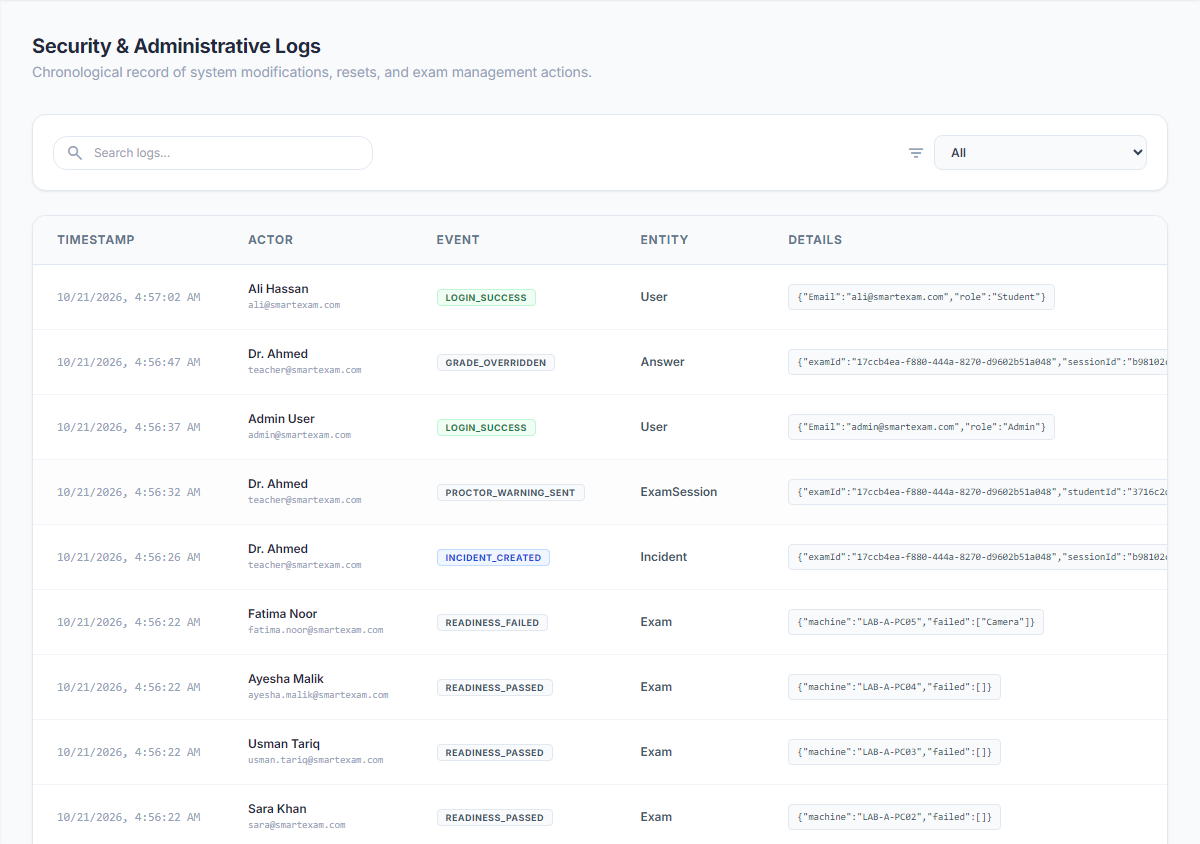
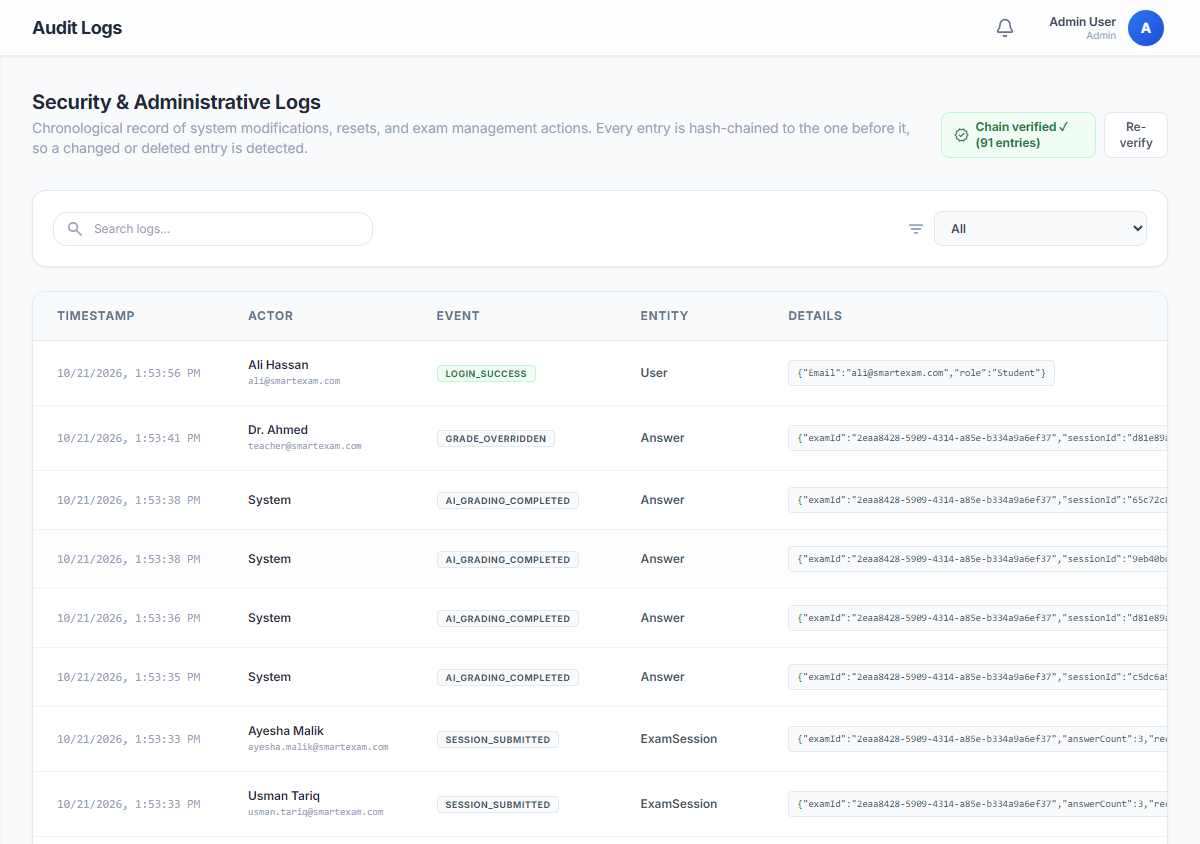
Thesis and test catalogue after Module 12: hash-chain and export tests in Ch7, updated audit diagrams and screenshot
- Ch7 from the post-M12 run: backend 508/0/0, desktop 233/0/0, Playwright 180/0/1 (922 tests, 921 passed)
- New UT-38..40 (hash chain), IT-27..30 (verify/tamper, concurrency, backfill, exports), ST-16; IT renumbered
- Defects D-48 (report download folder) and D-49 (load-sensitive M11-I-05) recorded
- Ch2/4/5/6 text and the audit/report diagrams describe the hash chain and the audited exports

diff --git a/important docs/fyp_doc_3chatp/Chapters/Chapter-7-3.tex b/important docs/fyp_doc_3chatp/Chapters/Chapter-7-3.tex
@@ -123,7 +123,7 @@ IT-22 & Hidden test results stay hidden from the student & 1. Student submits a 
 IT-23 & Teacher override is the final mark & 1. Theory answer is graded. \newline 2. Teacher overrides twice; student opens the result. & Overrides 3.5, then 4.0 \newline {\footnotesize\textit{Ref: M11-I-08}} & 4.0 is final for teacher and student; the AI suggestion is kept. & Pass\\ \hline
 \end{longtable}}
 
-Table~\ref{tab:it_audit_reports} checks the audit log and report endpoints of Logs, Analytics and Audit Trail (FR12). The hash-chain, event-audit and report-export tests (M12-I-01 to M12-I-09) were skipped in the final run because those features are not finished, so they are not listed.
+Table~\ref{tab:it_audit_reports} checks the audit log and report endpoints of Logs, Analytics and Audit Trail (FR12). It also covers the tamper-evident hash chain, the audit of monitoring events and the five report exports added in Module~12.
 
 {\small\setlength{\tabcolsep}{4pt}
 \begin{longtable}{|P{1.1cm}|P{2.5cm}|P{3.6cm}|P{2.6cm}|P{2.9cm}|P{1.2cm}|}
@@ -140,6 +140,10 @@ Table~\ref{tab:it_audit_reports} checks the audit log and report endpoints of Lo
 IT-24 & Audit log is admin-only & 1. Teacher, then admin, calls \texttt{GET /\allowbreak{}api/\allowbreak{}audit-\allowbreak{}logs}. & teacher@\allowbreak{}smartexam.\allowbreak{}com \newline admin@\allowbreak{}smartexam.\allowbreak{}com \newline {\footnotesize\textit{Ref: M12-A-01}} & Teacher 403; admin 200. & Pass\\ \hline
 IT-25 & Exam report is produced as a PDF & 1. Teacher generates the exam report. \newline 2. Teacher downloads the file. & Exam with one submitted session \newline {\footnotesize\textit{Ref: M12-A-03}} & 200; type application/pdf, content starts with \%PDF; listed in report history. & Pass\\ \hline
 IT-26 & Report download cannot leave its folder & 1. Teacher requests crafted file names. & \texttt{.\allowbreak{}.\allowbreak{}\%2F\allowbreak{}.\allowbreak{}.\allowbreak{}\%2F\allowbreak{}appsettings.\allowbreak{}json} \newline \texttt{\%2E\allowbreak{}\%2E\allowbreak{}\%2F\allowbreak{}appsettings.\allowbreak{}json} \newline {\footnotesize\textit{Ref: M12-A-04}} & 400 or 404; no response contains connection strings. & Pass\\ \hline
+IT-27 & Verify the chain and detect tampering & 1. Admin calls \texttt{GET /\allowbreak{}api/\allowbreak{}audit-\allowbreak{}logs/\allowbreak{}verify}. \newline 2. A row is changed in the database; verify again. \newline 3. Teacher calls verify. & Clean chain; one tampered row \newline {\footnotesize\textit{Ref: M12-I-01, M12-I-02}} & \texttt{valid: true}; then \texttt{valid: false} with \texttt{brokenAt}; teacher 403. & Pass\\ \hline
+IT-28 & Keep the chain under parallel writes and user deletion & 1. Write 50 audit entries in parallel. \newline 2. Admin deletes a user who has audit rows. & 50 concurrent writes; one deleted student \newline {\footnotesize\textit{Ref: M12-I-03, M12-I-11}} & Sequences unique with no gap and chain valid; the user's rows remain and the chain stays valid. & Pass\\ \hline
+IT-29 & Seal entries written before the chain existed & 1. Verify a log whose rows have no hash. \newline 2. Run the backfill twice. & Legacy rows without chain columns \newline {\footnotesize\textit{Ref: M12-I-09, M12-I-10}} & \texttt{valid: false} with the unsealed count; first backfill seals all, second seals none; chain valid. & Pass\\ \hline
+IT-30 & Audit violations and export the evidence & 1. Post a violation and a batch with two violations. \newline 2. Generate the attendance, violations and scores PDFs, the Excel file and the evidence ZIP. \newline 3. Another teacher and a student request an export. & A PNG capture and an unreadable JPEG \newline {\footnotesize\textit{Ref: M12-I-04 to M12-I-08, M12-I-12, M12-I-13, M12-A-05}} & Violation in the audit log, batch audited once with count 2; PDFs start with \%PDF, Excel has one row per student, ZIP manifest hashes match the files, bad image skipped; \texttt{REPORT\_\allowbreak{}GENERATED} carries the file's SHA-256; others 403. & Pass\\ \hline
 \end{longtable}}
 
 Table~\ref{tab:it_security} groups a security test with the regression tests for defects D-39 and D-41 to D-45 (Table~\ref{tab:bugs}).
@@ -156,11 +160,11 @@ Table~\ref{tab:it_security} groups a security test with the regression tests for
 \endfoot
 \hline
 \endlastfoot
-IT-27 & Repeated failed logins are rate-limited & 1. Send four failed logins from one IP. \newline 2. Log in correctly from it and another IP. & Limit 3 per minute \newline {\footnotesize\textit{Ref: SEC-I-04}} & 401 three times, then 429 even for the right password; other IP 200. & Pass\\ \hline
-IT-28 & Per-exam endpoints refused to other teachers (D-39) & 1. Another section's teacher calls each per-exam endpoint. \newline 2. Same calls with unknown ids. & ``Test Exam'', section BSCS-6A \newline {\footnotesize\textit{Ref: M10-I-18}} & 403 each, nothing changed; unknown ids 404; owner and admin 200. & Pass\\ \hline
-IT-29 & Hub stops working after sign-out (D-41) & 1. Teacher joins the exam group. \newline 2. Admin force-logs the teacher out. \newline 3. Socket calls Unlock\allowbreak{}Session. & Unlock 5 min \newline {\footnotesize\textit{Ref: M10-I-21}} & Call refused and connection closed; the session is not unlocked. & Pass\\ \hline
-IT-30 & Questions only while sitting the exam (D-42) & 1. Student opens the exam before, during and after the sitting. & Exam in 3 days; open exam \newline {\footnotesize\textit{Ref: M3-I-08}} & Questions only during the sitting; the teacher always sees them. & Pass\\ \hline
-IT-31 & Finished session cannot be restarted (D-43) & 1. Student submits, then calls \texttt{student/\allowbreak{}start}. \newline 2. A force-submitted student does the same. & Two students, one open exam \newline {\footnotesize\textit{Ref: M6-I-21}} & 409 \texttt{ALREADY\_\allowbreak{}SUBMITTED} for both; one session each. & Pass\\ \hline
-IT-32 & Teacher cannot assign another teacher's students (D-44) & 1. Teacher B creates an exam with teacher A's student. \newline 2. Teacher B adds that student later. & BSCS-6A (A), BSCS-6B (B) \newline {\footnotesize\textit{Ref: M9-I-21}} & 403 \texttt{STUDENT\_\allowbreak{}NOT\_\allowbreak{}IN\_\allowbreak{}YOUR\_\allowbreak{}SECTIONS} both times. & Pass\\ \hline
-IT-33 & Web token cannot act in the desktop session (D-45) & 1. Student starts on PC-01. \newline 2. The same account saves and submits from the web. & PC-01; web portal \newline {\footnotesize\textit{Ref: M9-I-22}} & 403 \texttt{DESKTOP\_\allowbreak{}CLIENT\_\allowbreak{}REQUIRED}; desktop answer kept; desktop submit 200. & Pass\\ \hline
+IT-31 & Repeated failed logins are rate-limited & 1. Send four failed logins from one IP. \newline 2. Log in correctly from it and another IP. & Limit 3 per minute \newline {\footnotesize\textit{Ref: SEC-I-04}} & 401 three times, then 429 even for the right password; other IP 200. & Pass\\ \hline
+IT-32 & Per-exam endpoints refused to other teachers (D-39) & 1. Another section's teacher calls each per-exam endpoint. \newline 2. Same calls with unknown ids. & ``Test Exam'', section BSCS-6A \newline {\footnotesize\textit{Ref: M10-I-18}} & 403 each, nothing changed; unknown ids 404; owner and admin 200. & Pass\\ \hline
+IT-33 & Hub stops working after sign-out (D-41) & 1. Teacher joins the exam group. \newline 2. Admin force-logs the teacher out. \newline 3. Socket calls Unlock\allowbreak{}Session. & Unlock 5 min \newline {\footnotesize\textit{Ref: M10-I-21}} & Call refused and connection closed; the session is not unlocked. & Pass\\ \hline
+IT-34 & Questions only while sitting the exam (D-42) & 1. Student opens the exam before, during and after the sitting. & Exam in 3 days; open exam \newline {\footnotesize\textit{Ref: M3-I-08}} & Questions only during the sitting; the teacher always sees them. & Pass\\ \hline
+IT-35 & Finished session cannot be restarted (D-43) & 1. Student submits, then calls \texttt{student/\allowbreak{}start}. \newline 2. A force-submitted student does the same. & Two students, one open exam \newline {\footnotesize\textit{Ref: M6-I-21}} & 409 \texttt{ALREADY\_\allowbreak{}SUBMITTED} for both; one session each. & Pass\\ \hline
+IT-36 & Teacher cannot assign another teacher's students (D-44) & 1. Teacher B creates an exam with teacher A's student. \newline 2. Teacher B adds that student later. & BSCS-6A (A), BSCS-6B (B) \newline {\footnotesize\textit{Ref: M9-I-21}} & 403 \texttt{STUDENT\_\allowbreak{}NOT\_\allowbreak{}IN\_\allowbreak{}YOUR\_\allowbreak{}SECTIONS} both times. & Pass\\ \hline
+IT-37 & Web token cannot act in the desktop session (D-45) & 1. Student starts on PC-01. \newline 2. The same account saves and submits from the web. & PC-01; web portal \newline {\footnotesize\textit{Ref: M9-I-22}} & 403 \texttt{DESKTOP\_\allowbreak{}CLIENT\_\allowbreak{}REQUIRED}; desktop answer kept; desktop submit 200. & Pass\\ \hline
 \end{longtable}}

diff --git a/important docs/fyp_doc_3chatp/Chapters/Chapter-7-4.tex b/important docs/fyp_doc_3chatp/Chapters/Chapter-7-4.tex
@@ -1,6 +1,6 @@
 \subsection{System Testing}\label{subsec:system_tests}
 
-System tests check complete user flows in the Playwright \texttt{chromium} project: the web panel runs in headless Chromium, and the desktop-client simulator sends the HTTP calls of the WPF client in the same test, so one action can be followed from the student PC to the teacher's screen and back. Each test creates its own students and exam. Of the 113 tests, 111 passed, none failed, and M12-E-04 and M12-E-05 were skipped and are not listed. One system test case may combine several catalogue tests of the same flow; all the tests it cites passed.
+System tests check complete user flows in the Playwright \texttt{chromium} project: the web panel runs in headless Chromium, and the desktop-client simulator sends the HTTP calls of the WPF client in the same test, so one action can be followed from the student PC to the teacher's screen and back. Each test creates its own students and exam. All 113 tests passed. One system test case may combine several catalogue tests of the same flow; all the tests it cites passed.
 
 Table~\ref{tab:st_admin} covers signing in, token refresh, logout and role separation in the web panel.
 
@@ -79,10 +79,11 @@ ST-12 & Force-submit all or one session & 1. A simulator saves a draft; teacher 
 ST-13 & Show grading suggestions, let the teacher decide & 1. Submit non-compiling, then correct code; open Review. \newline 2. Override a theory mark; in another exam, accept AI suggestions. & \texttt{arr}, \texttt{n} undeclared; override 7 \newline {\footnotesize\textit{Ref: M11-E-01, M11-E-04, M11-E-02, M11-E-06}} & ``Compilation failed'', 0 / 20, two test-case rows, the first Not run; 20 / 20; 7/10 Overridden; ``Accepted 2 suggestion(s)''. & Pass\\ \hline
 ST-14 & Show plagiarism between submissions & 1. Three students submit the same answer; open Analytics. \newline 2. Two submit a program and a renamed copy. & Rename \texttt{best}$\rightarrow$\texttt{top} \newline {\footnotesize\textit{Ref: M11-E-03, M11-E-05}} & 3$\times$3 heat map, cell 0-1 shows 100; flag ``100\% Similarity Match''. & Pass\\ \hline
 ST-15 & Review the audit log, generate a PDF report & 1. Admin filters Audit Logs and searches by email. \newline 2. Teacher clicks Generate New Report. & \texttt{LOGIN\_\allowbreak{}SUCCESS}; teacher@\allowbreak{}smartexam.\allowbreak{}com \newline {\footnotesize\textit{Ref: M7-E-03, M12-E-01, M12-E-02}} & Only \texttt{LOGIN\_\allowbreak{}SUCCESS} rows; teacher found; a Download button and a \texttt{.pdf} row. & Pass\\ \hline
+ST-16 & Show the chain status and export evidence & 1. Admin opens Audit Logs. \newline 2. Teacher opens Reports and clicks Evidence ZIP. & Seeded exam with submitted sessions \newline {\footnotesize\textit{Ref: M12-E-04, M12-E-05}} & Badge ``Chain verified''; a \texttt{.zip} download starts. & Pass\\ \hline
 \end{longtable}}
 
 \subsubsection*{Pending Lab Verification}
-Checks that need a real lab PC (WPF windows, keyboard and USB events, a webcam, a network cable or 30 machines) are on the manual lab checklist (layers D, M and P) and were not executed, so Table~\ref{tab:st_pending} lists them as Pending. Their decision logic is mostly covered by the unit and integration tests above. The Module~12 hash-chain and report-export tests are also not run, because those features are not finished.
+Checks that need a real lab PC (WPF windows, keyboard and USB events, a webcam, a network cable or 30 machines) are on the manual lab checklist (layers D, M and P) and were not executed, so Table~\ref{tab:st_pending} lists them as Pending. Their decision logic is mostly covered by the unit and integration tests above.
 
 {\small\setlength{\tabcolsep}{4pt}
 \begin{longtable}{|P{2.6cm}|P{3.0cm}|P{3.8cm}|P{3.6cm}|P{1.4cm}|}
@@ -108,7 +109,7 @@ M5-P-01 & Load: 30 clients per lab & k6: 30 virtual students send heartbeats eve
 
 \section{Bugs Report}\label{sec:bugs}
 
-In total 47 defects (D-01 to D-47) were recorded in the test catalogue, each with the test or review that found it. Six (D-07, D-16, D-19, D-20, D-22, D-26) were found by code review, and one (D-33) was a flaky test rather than a product defect. Table~\ref{tab:bugs} lists the 20 with the largest effect on exam integrity, data access and reliability; every test named in it is kept as a regression test and passed in the final run. Severity is Critical for a leak of exam content or credentials or a bypass of the desktop client, High for a broken access rule or a loss of exam time or data, and Medium for a fault with a limited effect. No defect is open.
+In total 49 defects (D-01 to D-49) were recorded in the test catalogue, each with the test or review that found it. Six (D-07, D-16, D-19, D-20, D-22, D-26) were found by code review, and two (D-33, D-49) were timing-sensitive tests rather than product defects. Table~\ref{tab:bugs} lists the 20 with the largest effect on exam integrity, data access and reliability; every test named in it is kept as a regression test and passed in the final run. Severity is Critical for a leak of exam content or credentials or a bypass of the desktop client, High for a broken access rule or a loss of exam time or data, and Medium for a fault with a limited effect. No defect is open.
 
 {\small\setlength{\tabcolsep}{4pt}
 \begin{longtable}{|P{1.0cm}|P{2.0cm}|P{8.5cm}|P{1.6cm}|P{1.2cm}|}
@@ -144,4 +145,4 @@ D-44 & M9-I-21 & Teachers could assign other teachers' students. & High & Fixed\
 D-45 & M9-I-22 & A web token could act in the lab PC's session. & Critical & Fixed\\ \hline
 \end{longtable}}
 
-Most serious defects were access-control faults that appear only when two users of the same role meet, or failure paths of the desktop client (crash, network loss, camera error) found by unit tests with fakes. In summary, SmartExam was tested at three levels with 915 automated tests, of which 900 passed, none failed and 15 were skipped, and every test case marked Pass in this chapter is backed by a passing test from that run. The 47 defects recorded during testing are all fixed; those found by a test are kept as regression tests. The checks that need a real lab PC, the load test and the unfinished Module~12 features (audit hash chain and report exports) are still pending and are reported as such.
+Most serious defects were access-control faults that appear only when two users of the same role meet, or failure paths of the desktop client (crash, network loss, camera error) found by unit tests with fakes. In summary, SmartExam was tested at three levels with 922 automated tests, of which 921 passed, none failed and one was skipped (SEC-A-01, covered by SEC-I-04), and every test case marked Pass in this chapter is backed by a passing test from that run. The 49 defects recorded during testing are all fixed; those found by a test are kept as regression tests. The checks that need a real lab PC and the load test are still pending and are reported as such.

diff --git a/important docs/fyp_doc_3chatp/Chapters/Chapter-7-1.tex b/important docs/fyp_doc_3chatp/Chapters/Chapter-7-1.tex
@@ -39,7 +39,7 @@ System tests run complete user flows across the web panel, the backend and the s
   \item \textbf{Requirement-based IDs.} Each module has test IDs of the form \texttt{M<module>-\allowbreak{}<layer>-\allowbreak{}<nn>} in the test catalogue (\texttt{Docs/\allowbreak{}TEST\_CASES.md}), with layers U (unit), I (in-process integration), A (black-box API), E (browser end-to-end), D (desktop UI), M (manual lab check) and P (load). Every UT, IT and ST row gives its catalogue ID in the Test Data column.
   \item \textbf{Tests before or with the feature.} Tests for a feature not yet built are committed as pending (\texttt{Skip} in xUnit, \texttt{test.fixme} in Playwright) and are enabled in the change that adds the feature.
   \item \textbf{Isolation.} No test uses the Neon production database. The backend suites run on a fresh seeded in-memory database, and most tests create their own exams and users.
-  \item \textbf{Defects.} Each defect is recorded (D-01 to D-47) with the test or review that found it and fixed; a test that found a defect stays in the suite as a regression test.
+  \item \textbf{Defects.} Each defect is recorded (D-01 to D-49) with the test or review that found it and fixed; a test that found a defect stays in the suite as a regression test.
   \item \textbf{Entry and exit criteria.} Entry: the solution builds and the module's test cases are written. Exit: zero failed tests in all suites, no open defect, and every catalogue row marked as automated maps to at least one passing test.
 \end{itemize}
 
@@ -118,7 +118,7 @@ Sprint 3 (9--12) & M8, M9: exam creation, eligibility, seat checks \\ \hline
 Sprint 4 (13--16) & M2, M3, M4: readiness and lockdown policy unit tests; start-gate tests \\ \hline
 Sprint 5 (17--20) & M5, M10: monitoring client rules, heartbeat and Live Monitor tests \\ \hline
 Sprint 6 (21--24) & M6, M11: autosave, backup, submission, grading and plagiarism tests \\ \hline
-Sprint 7 (25--28) & M12: audit and report tests (hash-chain and export tests still pending) \\ \hline
+Sprint 7 (25--28) & M12: audit, hash-chain and report-export tests \\ \hline
 Sprint 8 (29--32) & System tests, full regression, defect fixing, final run on 21 Oct 2026 \\ \hline
 \end{tabular}}
 \end{table}
@@ -134,12 +134,12 @@ Table~\ref{tab:test_summary} gives the totals of the final run.
 \begin{tabular}{|p{6.4cm}|c|c|c|c|}
 \hline
 \textbf{Suite} & \textbf{Tests} & \textbf{Passed} & \textbf{Failed} & \textbf{Skipped} \\ \hline
-Backend\_API.Tests (xUnit) & 501 & 489 & 0 & 12 \\ \hline
+Backend\_API.Tests (xUnit) & 508 & 508 & 0 & 0 \\ \hline
 Student\_Desktop\_App.Tests (xUnit) & 233 & 233 & 0 & 0 \\ \hline
 Playwright \texttt{api} project & 68 & 67 & 0 & 1 \\ \hline
-Playwright \texttt{chromium} project & 113 & 111 & 0 & 2 \\ \hline
-\textbf{Total} & \textbf{915} & \textbf{900} & \textbf{0} & \textbf{15} \\ \hline
+Playwright \texttt{chromium} project & 113 & 113 & 0 & 0 \\ \hline
+\textbf{Total} & \textbf{922} & \textbf{921} & \textbf{0} & \textbf{1} \\ \hline
 \end{tabular}}
 \end{table}
 
-No test failed and no Playwright test needed a retry. The 15 skipped tests are not counted as passed. Twelve are the Module~12 acceptance tests (hash chain, audit of monitoring events and the attendance, violations, Excel and evidence-ZIP reports), whose features are not finished, and two are the matching browser tests M12-E-04 and M12-E-05. The last is SEC-A-01, the login rate-limit test, which cannot run against the Playwright backend because that backend raises the limit; the same rule is checked by SEC-I-04 in xUnit. Of the 463 rows in the test catalogue, 414 have at least one passing test. The other 49 are the unfinished Module~12 rows and the desktop UI, manual lab and load checks (M*-D, M*-M, M5-P-01), which need a lab PC and were not run.
+No test failed and no Playwright test needed a retry. The one skipped test is not counted as passed: it is SEC-A-01, the login rate-limit test, which cannot run against the Playwright backend because that backend raises the limit; the same rule is checked by SEC-I-04 in xUnit. Of the 469 rows in the test catalogue, 437 have at least one passing test. The other 32 are the desktop UI, manual lab and load checks (M*-D, M*-M, M5-P-01), which need a lab PC and were not run.

diff --git a/important docs/fyp_doc_3chatp/Chapters/Chapter-7-2.tex b/important docs/fyp_doc_3chatp/Chapters/Chapter-7-2.tex
@@ -4,7 +4,7 @@ This section lists the test cases by level: unit (UT), integration (IT) and syst
 
 \subsection{Unit Testing}\label{subsec:unit_tests}
 
-Unit tests check one class at a time without a database, network or user interface, in the xUnit projects for the WPF client (233 tests, all passed) and the server (489 passed, 12 skipped, together with its API tests). Time-dependent logic uses a fake clock, the registry is an in-memory fake, and webcam frames are generated in code. The skipped backend tests belong to Module~12 (audit hash chain, audit of monitoring events and report exports), which is not finished, and are not counted here.
+Unit tests check one class at a time without a database, network or user interface, in the xUnit projects for the WPF client (233 tests) and the server (508 tests, together with its API tests), all of which passed. Time-dependent logic uses a fake clock, the registry is an in-memory fake, and webcam frames are generated in code.
 
 Table~\ref{tab:ut_auth} covers password hashing on the server, token refresh in the desktop client and the hardware fingerprint (HWID) that binds a student to one lab PC.
 
@@ -185,4 +185,23 @@ Table~\ref{tab:ut_similarity} covers static analysis, TF-IDF grading of theory a
 UT-35 & Estimate complexity, flag hard-coding & 1. Analyse nested loops and recursion. \newline 2. Analyse 12 if statements. & C++ snippets; sum(arr, n) \newline {\footnotesize\textit{Ref: M11-U-14}} & O(1) to O(n$^3$+); recursion found; hard-coding High. & Pass\\ \hline
 UT-36 & Grade theory answers with TF-IDF & 1. Grade an answer identical to the model. \newline 2. Grade a partial and an unrelated answer. & Identical: ``A stack is LIFO and a queue is FIFO.'' (model and answer) \newline Model (other cases): ``Stack is LIFO, queue is FIFO.'' \newline {\footnotesize\textit{Ref: M11-U-07, M11-U-15}} & 10 marks, High; partial 3--7, Medium; unrelated 0. & Pass\\ \hline
 UT-37 & Detect copies, separate algorithms & 1. Compare a renamed and a commented copy. \newline 2. Compare a recursive version. & sum(arr, n) vs addAll(values, count) \newline {\footnotesize\textit{Ref: M11-U-08 to M11-U-10}} & $\geq$ 90\%, $\geq$ 95\% and $<$ 30\%. & Pass\\ \hline
+\end{longtable}}
+
+Table~\ref{tab:ut_audit_chain} covers the hash chain that makes the audit log tamper-evident (FR12): each row stores the previous row's hash, so a changed or deleted row breaks the chain.
+
+{\small\setlength{\tabcolsep}{4pt}
+\begin{longtable}{|P{1.1cm}|P{2.5cm}|P{3.6cm}|P{2.6cm}|P{2.9cm}|P{1.2cm}|}
+\caption{Unit Test Cases for the Audit Hash Chain}\label{tab:ut_audit_chain}\\ \hline
+\textbf{Test Case} & \textbf{Test Objective} & \textbf{Test Steps} & \textbf{Test Data} & \textbf{Expected Results} & \textbf{Pass/\allowbreak{}Fail}\\ \hline
+\endfirsthead
+\multicolumn{6}{c}{\tablename~\thetable{} -- continued from previous page}\\ \hline
+\textbf{Test Case} & \textbf{Test Objective} & \textbf{Test Steps} & \textbf{Test Data} & \textbf{Expected Results} & \textbf{Pass/\allowbreak{}Fail}\\ \hline
+\endhead
+\hline \multicolumn{6}{r}{Continued on next page}\\
+\endfoot
+\hline
+\endlastfoot
+UT-38 & Link each audit entry to the previous one & 1. Write three audit entries. \newline 2. Recompute every hash. & Three entries; first PrevHash is 64 zeros \newline {\footnotesize\textit{Ref: M12-U-01, M12-U-05}} & Sequence 1, 2, 3 with no gap; each PrevHash equals the previous Hash; every Hash recomputes. & Pass\\ \hline
+UT-39 & Detect a changed or deleted entry & 1. Change the details of row 2 and verify. \newline 2. Remove row 2 and verify. & Chain of three entries \newline {\footnotesize\textit{Ref: M12-U-02, M12-U-03}} & Broken at row 2 when changed; broken at row 3 (sequence gap) when deleted. & Pass\\ \hline
+UT-40 & Hash does not depend on JSON key order & 1. Hash the same details with the keys reordered. \newline 2. Change one value. & \{a:1, b:2\} and \{b:2, a:1\} \newline {\footnotesize\textit{Ref: M12-U-04}} & Same hash for both orders; a changed value gives a different hash. & Pass\\ \hline
 \end{longtable}}

diff --git a/important docs/fyp_doc_3chatp/Chapters/Chapter-6-1.tex b/important docs/fyp_doc_3chatp/Chapters/Chapter-6-1.tex
@@ -135,7 +135,7 @@ The device-binding page (Figure~\ref{fig:ui_device_bindings}) lists each student
 \label{fig:ui_device_bindings}
 \end{figure}
 
-In the student portal (Figure~\ref{fig:ui_student_performance}) a student sees exams taken, average and best score, integrity flags, a score trend and an exam timeline. The read-only audit page (Figure~\ref{fig:ui_audit_logs}) lists \texttt{AuditLogs} rows (time, actor, event, entity, JSON details) such as logins, readiness results, warnings, incidents and grade overrides (FR12).
+In the student portal (Figure~\ref{fig:ui_student_performance}) a student sees exams taken, average and best score, integrity flags, a score trend and an exam timeline. The read-only audit page (Figure~\ref{fig:ui_audit_logs}) lists \texttt{AuditLogs} rows (time, actor, event, entity, JSON details) such as logins, grade overrides, completed AI grading and submissions (FR12). The badge at the top shows that the hash chain over these rows verifies.
 
 \begin{figure}[H]
 \centering
@@ -191,7 +191,7 @@ AiGradingResults & Suggested mark of an answer & ResultId, AnswerId (unique), St
 TestCaseResults & Per-case outcome of a grading run & TestCaseResultId, ResultId, Passed \\
 TeacherGradeOverrides & Final mark set by the teacher & OverrideId, AnswerId (unique), TeacherId \\
 PlagiarismResults & Similar answer pairs & PlagId, QuestionId, UserIdA, UserIdB \\
-AuditLogs & Security and admin actions & LogId, ActorId, EventType, Details \\
+AuditLogs & Security and admin actions, hash-chained & LogId, ActorId, EventType, Details, Sequence, PrevHash, Hash \\
 ExamReports & Generated PDF reports & ReportId, ExamId, ReportType, FilePath \\
 Notifications & In-app notifications & NotificationId, RecipientId, IsRead \\
 \end{longtable}

diff --git a/important docs/fyp_doc_3chatp/Chapters/Chapter-5-1.tex b/important docs/fyp_doc_3chatp/Chapters/Chapter-5-1.tex
@@ -187,7 +187,7 @@ After submission (Figure~\ref{fig:activity_grading}) MCQ answers are checked aga
 \label{fig:activity_grading}
 \end{figure}
 
-For a report (Figure~\ref{fig:activity_report}) the API renders a QuestPDF document with summary statistics, per-question performance and the score distribution, records it in \texttt{ExamReports} and returns a download link; report generation is not audited. Controllers write audit entries explicitly through \texttt{AuditService}, saving refused actions at once and staging others with the change they record, and admins read them on the audit page (Figure~\ref{fig:activity_audit}).
+For a report (Figure~\ref{fig:activity_report}) the API renders a QuestPDF document with summary statistics, per-question performance and the score distribution, records it in \texttt{ExamReports} and returns a download link. The attendance, violations and scores PDFs, the Excel file and the evidence ZIP are produced by \texttt{ReportExportService} and audited as \texttt{REPORT\_GENERATED} with the file's SHA-256. Controllers write audit entries explicitly through \texttt{AuditService}, saving refused actions at once and staging others with the change they record. \texttt{SaveChanges} then seals each new row into a hash chain (sequence number, previous hash, SHA-256 of the row), one writer at a time, and admins read the log and its verification status on the audit page (Figure~\ref{fig:activity_audit}).
 
 \begin{figure}[!htbp]
 \centering

diff --git a/important docs/fyp_doc_3chatp/Chapters/Chapter-2-2.tex b/important docs/fyp_doc_3chatp/Chapters/Chapter-2-2.tex
@@ -24,7 +24,7 @@ FR10 & M10 Live Proctoring Dashboard & Show live student status over SignalR wit
 FR11.1 & M11 AI-Assisted Evaluation & Compile coding answers and run them against weighted test cases in an isolated Docker container. \\
 FR11.2 & M11 AI-Assisted Evaluation & Score theory answers against the model answer with offline TF-IDF similarity and a confidence value. LLM grading is optional and off by default. \\
 FR11.3 & M11 AI-Assisted Evaluation & Compare submissions within an exam by k-gram winnowing and show a similarity matrix. Teachers can override any suggested mark. \\
-FR12 & M12 Logs, Analytics and Audit Trail & Keep audit logs of security-relevant actions and produce analytics and QuestPDF exam reports. \\
+FR12 & M12 Logs, Analytics and Audit Trail & Keep a tamper-evident (hash-chained) audit log of security-relevant actions and produce analytics, QuestPDF reports and Excel and evidence-ZIP exports. \\
 \hline\hline
 \end{tabular}}
 \end{table}

diff --git a/important docs/fyp_doc_3chatp/Chapters/Chapter-4-2.tex b/important docs/fyp_doc_3chatp/Chapters/Chapter-4-2.tex
@@ -31,7 +31,7 @@ Exams (M8--M10) & Exams, Questions, TestCases, ExamAssignments, ExamProctors & A
 Exam run (M2, M3, M6) & ReadinessChecks, ExamSessions, Answers & Sessions hold status, extra minutes and the receipt hash; answers carry a revision. \\
 Monitoring (M5, M10) & MonitoringEvents, Screenshots, Incidents & Events have a JSON payload; screenshots store path, size and SHA-256; incidents hold a proctor's note, severity and status (Open, Escalated, Resolved). \\
 Evaluation (M11) & AiGradingResults, TestCaseResults, TeacherGradeOverrides, PlagiarismResults & Suggested mark and confidence, per-test-case result, teacher override, and similarity per student pair. \\
-Audit (M12) & AuditLogs, ExamReports, Notifications & Notifications also carry invigilator warnings. \\
+Audit (M12) & AuditLogs, ExamReports, Notifications & Audit rows are hash-chained; notifications also carry invigilator warnings. \\
 \hline\hline
 \end{tabularx}}
 \end{table}

diff --git a/SmartExam_Root/Docs/TEST_CASES.md b/SmartExam_Root/Docs/TEST_CASES.md
@@ -611,6 +611,7 @@ xUnit: `Backend_API.Tests/Tests/Acceptance/Module12AuditAcceptanceTests.cs` (tes
 | D-46 | M10-I-22 (verifier) | `PATCH /api/student/notifications/{id}/read` cleared a proctor warning (it then left the heartbeat ack) without the `PROCTOR_WARNING_ACKNOWLEDGED` audit the other two paths write | **Fixed** — audited (`via: student-portal`) |
 | D-47 | M5-I-23 (verifier) | A session's timeline listed every proctor warning sent to the student during the session's time, including another exam's (overlapping practice session) | **Fixed** — only warnings whose `RelatedEntityId` is this session |
 | D-48 | M12 implementation | `GET /api/analytics/reports/{file}` always read from `./Reports/`, ignoring `Analytics:ReportOutputPath` that the generator writes to, so a configured output folder made every report download 404 (and every file was served as `application/pdf`) | **Fixed** — one `ReportDirectory` for both; content type by extension (PDF / xlsx / zip), streamed |
+| D-49 | M11-I-05 (final regression) | On a loaded PC the 1 GB memory-hog program in the Docker sandbox ran past the 2 s case time limit before reaching the 256 MB memory limit, so the case was graded as a timeout instead of a memory breach (test-only: the sandbox limits were correct) | **Fixed** — the test gives that case a 10 s time limit so the memory limit always fires first |
 
 ---
 
